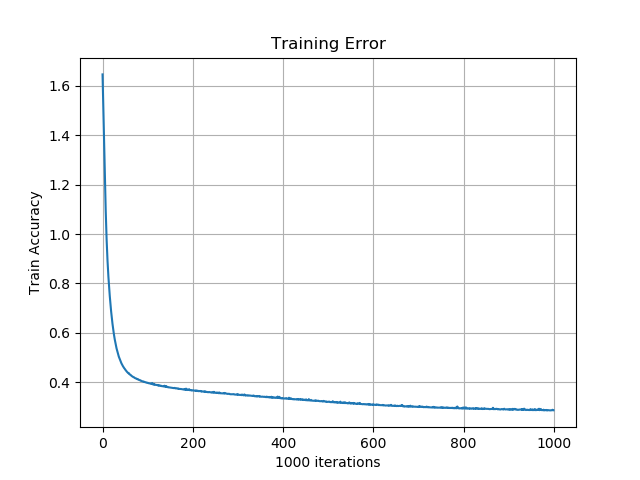
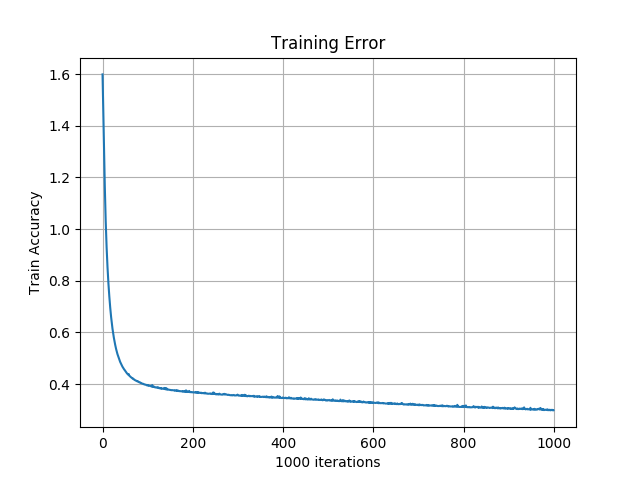
Add 1a results

diff --git a/Assignment1/jp_start_project_1a.py b/Assignment1/jp_start_project_1a.py
@@ -12,31 +12,19 @@ if not os.path.isdir('figures'):
     print('creating the figures folder')
     os.makedirs('figures')
 
-# scale data
-def scale(X, X_min, X_max):
-    return (X - X_min)/(X_max-X_min)
 
 NUM_FEATURES = 36
 NUM_CLASSES = 6
 
 # learning_rate = 0.01
 epochs = 1000
-# batch_size = 32
-# num_neurons = 10
 seed = 10
 np.random.seed(seed)
 
-
-
-
-# #read train data
-# train_input = np.loadtxt('sat_train.txt',delimiter=' ')
-# trainX, train_Y = train_input[:,:36], train_input[:,-1].astype(int)
-# trainX = scale(trainX, np.min(trainX, axis=0), np.max(trainX, axis=0))
-# train_Y[train_Y == 7] = 6
-#
-# trainY = np.zeros((train_Y.shape[0], NUM_CLASSES))
-# trainY[np.arange(train_Y.shape[0]), train_Y-1] = 1 #one hot matrix
+# scale data
+def scale(X, X_min, X_max):
+    return (X - X_min)/(X_max-X_min)
+#end def
 
 def train(trainX, trainY, testX, testY, small=False, num_hidden_layer=1, batch_size=32, num_neurons=10, learning_rate=0.01, beta=10**(-6), **kwargs):
     # Create the model
@@ -99,7 +87,7 @@ def train(trainX, trainY, testX, testY, small=False, num_hidden_layer=1, batch_s
                 t = time.time()
                 for start, end in zip(range(0, no_data, batch_size), range(batch_size, no_data, batch_size)):
                     train_op.run(feed_dict={x: train_X[start:end], y_: train_Y[start:end]})
-                time_to_update += time.time() - t
+                time_to_update += (time.time() - t)
                 train_err.append(loss.eval(feed_dict={x: train_X, y_: train_Y}))
                 test_acc.append(accuracy.eval(feed_dict={x: testX, y_: testY}))
 
@@ -109,7 +97,6 @@ def train(trainX, trainY, testX, testY, small=False, num_hidden_layer=1, batch_s
                     print('-'*50)
 
         time_taken_one_epoch = (time_to_update/epochs) * 1000
-
         return train_err, test_acc, time_taken_one_epoch
 
     def ffn_2():
@@ -200,6 +187,7 @@ def train(trainX, trainY, testX, testY, small=False, num_hidden_layer=1, batch_s
 
     return train_err, test_acc, time_taken_one_epoch
 #end def
+
 
 def _read_data(file_name, x_min=None, x_max=None, train=False):
     _input = np.loadtxt(file_name, delimiter=' ')
@@ -303,9 +291,7 @@ def main():
     plt.grid(b=True)
     plt.savefig('figures/2c_Converged Accuracy against Batch Size.png')
 
-    plt.show()
-
-    optimal_batch_size = 32
+    optimal_batch_size = 16
 
     # =====================Q3 Determine optimal number of hidden neurons=====================
 
@@ -362,12 +348,12 @@ def main():
     plt.grid(b=True)
     plt.savefig('figures/3c_Accuracy against Number of Neurons.png')
 
-    optimal_num_neurons = 10
-#
+    optimal_num_neurons = 25
+
     # =====================Q4 Determine optimal decay parameter=====================
 
     # plot learning curves
-    beta_list = [0,1e-3,1e-6,1e-9,1e-12]
+    beta_list = [0,1e-12,1e-9,1e-6,1e-3]
     train_err_list = []
     test_acc_list = []
     time_taken_one_epoch_list = []
@@ -394,15 +380,15 @@ def main():
     plt.figure('Test Accuracy against Decay Parameters')
     plt.title('Test Accuracy against Decay Parameters')
     plt.xticks(np.arange(5), [str(beta) for beta in beta_list])
-    plt.scatter([str(beta) for beta in beta_list], final_acc)
+    plt.plot([str(beta) for beta in beta_list], final_acc)
     plt.xlabel('Decay Parameters')
     plt.ylabel('Test Accuracy')
     plt.grid(b=True)
     plt.savefig('figures/4b_Test Accuracy against Decay Parameters.png')
 
-    optimal_beta = 1e-6
+    optimal_beta = 0
 
-    # =====================Q5 Determine optimal decay parameter=====================
+    # =====================Q5=====================
 
     train_err_ffn_list = []
     test_acc_ffn_list = []
@@ -440,7 +426,7 @@ def main():
     plt.figure("Train Error against Epoch with Different Number of Hidden Layers")
     plt.title("Train Error against Epoch with Different Number of Hidden Layers")
     for i in range(len(train_err_ffn_list)):
-        plt.plot(range(epochs), train_err_ffn_list[i], label = 'Number of Hidden Layers = {}'.format(i))
+        plt.plot(range(epochs), train_err_ffn_list[i], label = 'Number of Hidden Layers = {}'.format(i+1))
         plt.xlabel(str(epochs) + ' iterations')
         plt.ylabel('Train Error')
         plt.legend()
@@ -451,7 +437,7 @@ def main():
     plt.figure("Test Accuracy against Epoch with Different Number of Hidden Layers")
     plt.title("Test Accuracy against Epoch with Different Number of Hidden Layers")
     for i in range(len(test_acc_ffn_list)):
-        plt.plot(range(epochs), test_acc_ffn_list[i], label = 'Number of Hidden Layers = {}'.format(i))
+        plt.plot(range(epochs), test_acc_ffn_list[i], label = 'Number of Hidden Layers = {}'.format(i+1))
         plt.xlabel(str(epochs) + ' iterations')
         plt.ylabel('Test Accuracy')
         plt.legend()
@@ -459,8 +445,6 @@ def main():
         plt.savefig('figures/5b_test_accuracy_vs_epoch_for_diff_num_hidden_layers.png')
 
     print ("Time taken for 3_layer: %g \nTime taken for 4_layer: %g" % (time_taken_one_epoch_ffn_list[0],time_taken_one_epoch_ffn_list[1]))
-
-
-    #end def
+#end def
 
 if __name__ == '__main__': main()

diff --git a/Assignment1/start_project_1bb.py b/Assignment1/start_project_1bb.py
@@ -173,8 +173,8 @@ class CVRegressor():
 
 
 # scale data
-def scale(X, X_min, X_max):
-    return (X - X_min)/(X_max-X_min)
+def scale(X, X_mean, X_std):
+    return (X - X_mean) / X_std
 #end def
 
 
@@ -187,16 +187,16 @@ def _read_data(file_name):
     X_test, Y_test = _input_test[:, :8], _input_test[:, -1].astype(float)
 
     # scaling
-    x_min = np.min(X_train, axis=0)
-    x_max = np.max(X_train, axis=0)
-    y_min = np.min(Y_train)
-    y_max = np.max(Y_train)
+    x_mean = np.mean(X_train, axis=0)
+    x_std = np.std(X_train, axis=0)
+    y_mean = np.mean(Y_train)
+    y_std = np.std(Y_train)
 
-    X_train = scale(X_train, x_min, x_max)
-    Y_train = scale(Y_train, y_min, y_max)
+    X_train = scale(X_train, x_mean, x_std)
+    Y_train = scale(Y_train, y_mean, y_std)
 
-    X_test = scale(X_test, x_min, x_max)
-    Y_test = scale(Y_test, y_min, y_max)
+    X_test = scale(X_test, x_mean, x_std)
+    Y_test = scale(Y_test, y_mean, y_std)
 
     return X_train, Y_train.reshape(len(Y_train), 1), X_test, Y_test.reshape(len(Y_test), 1)
 #end def
